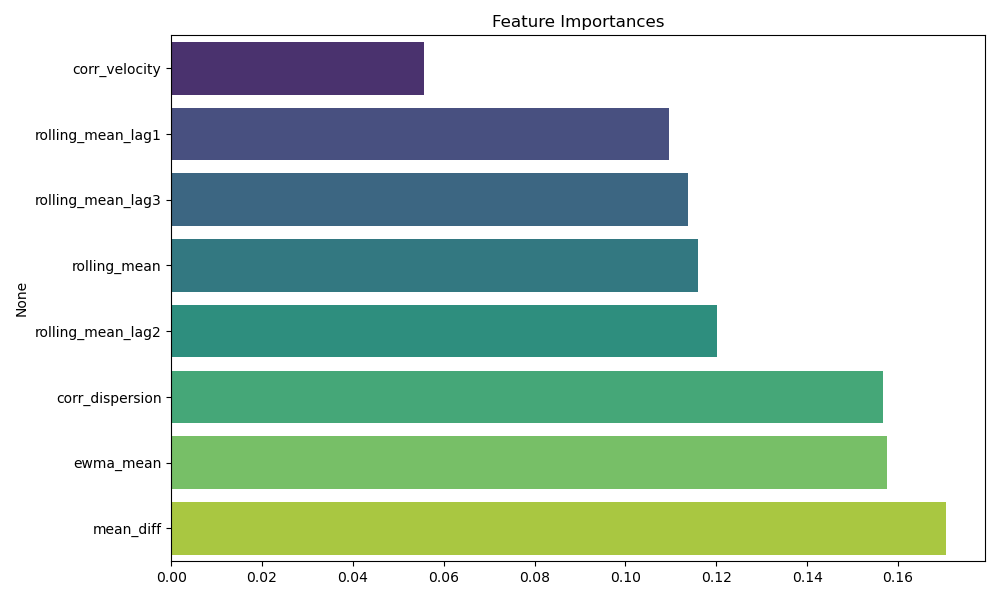
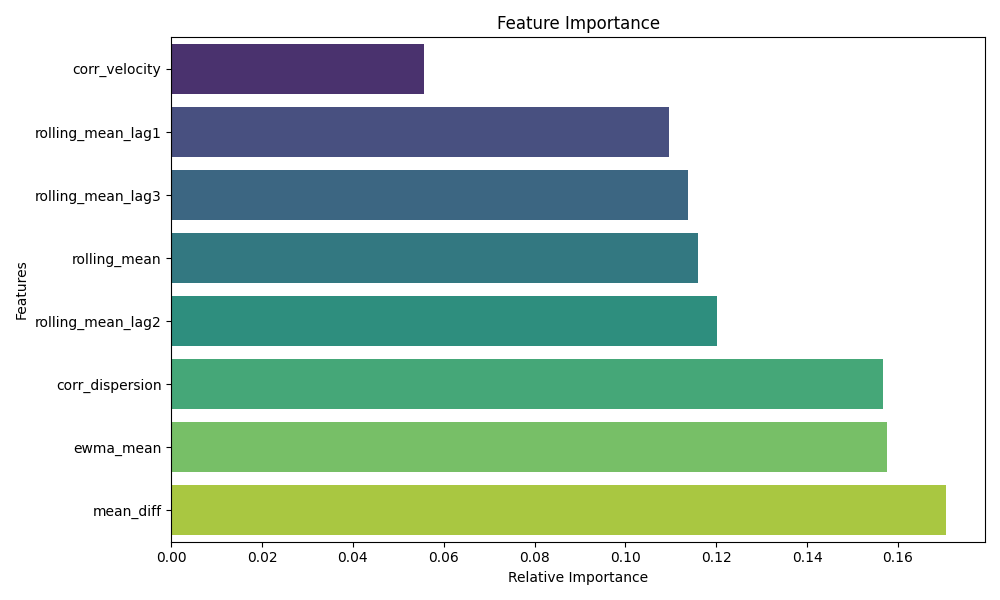
Fixed feature importance plot labels and axes

diff --git a/src/supervised_regime_prediction.py b/src/supervised_regime_prediction.py
@@ -95,10 +95,19 @@ def build_labels(features: pd.DataFrame) -> pd.Series:
 
 def plot_feature_importance(clf: RandomForestClassifier, features: pd.DataFrame):
     if hasattr(clf, 'feature_importances_'):
+        # Create the series
         imp = pd.Series(clf.feature_importances_, index=features.columns).sort_values(ascending=True)
+        
         plt.figure(figsize=(10, 6))
+        
+        # Plot
         sns.barplot(x=imp.values, y=imp.index, hue=imp.index, palette="viridis", legend=False)
-        plt.title("Feature Importances")
+        
+        plt.title("Feature Importance")
+        
+        plt.xlabel("Relative Importance") 
+        plt.ylabel("Features")                 
+
         plt.tight_layout()
         plt.savefig(os.path.join(FIGURES_DIR, "feature_importance.png"))
         plt.close()
